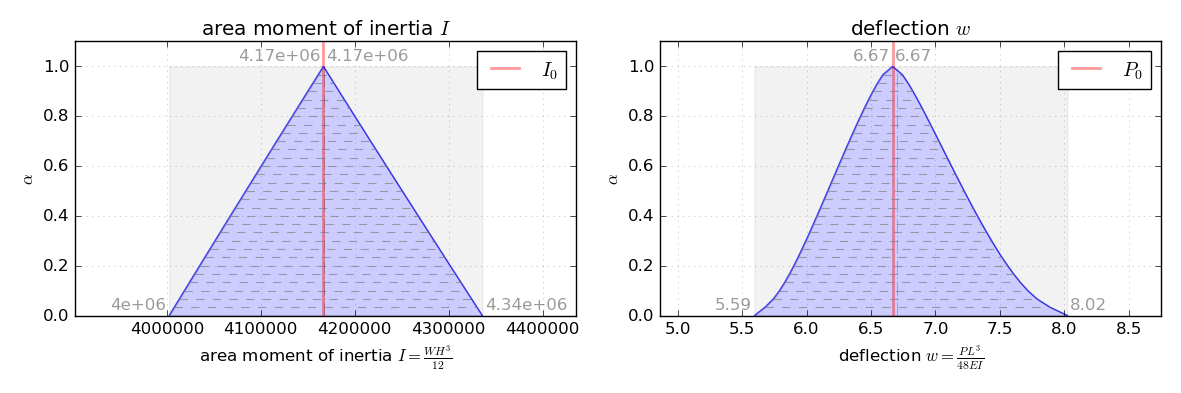
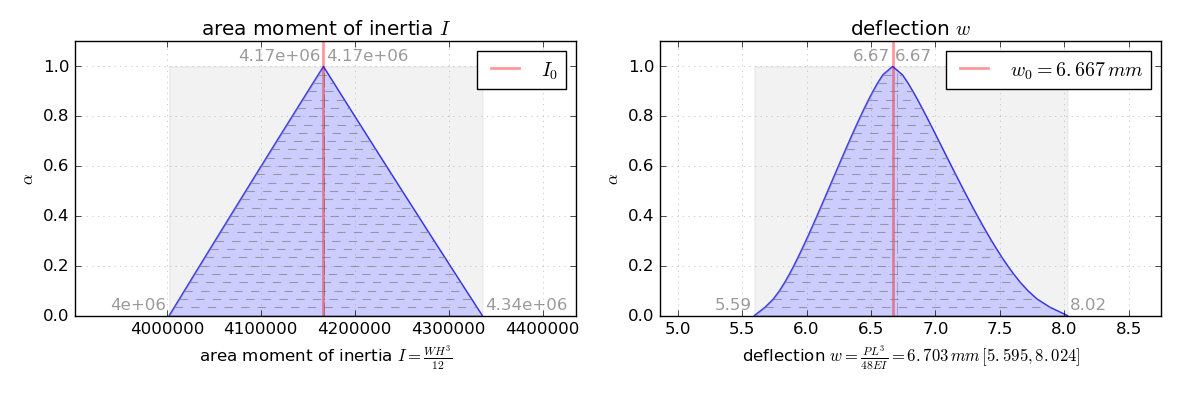
update example ssb

Changed region(s): [[0.7925, 0.1221, 0.9754, 0.2443], [0.6097, 0.8855, 0.9145, 0.9466]]

diff --git a/docs/examples/ssb/ssb.py b/docs/examples/ssb/ssb.py
@@ -66,7 +66,7 @@ B_ = 300. # mm
 fig, axs = plt.subplots(1, 2, dpi=90, facecolor='w', edgecolor='k', figsize=(B_ / 25.4, H_ / 25.4))
 
 axs[0].axvline(I0, lw=2, alpha=.4, c="r", label="$I_0$")
-axs[1].axvline(w0, lw=2, alpha=.4, c="r", label="$P_0$")
+axs[1].axvline(w0, lw=2, alpha=.4, c="r", label="$w_0 = {:.4g}\,mm$".format(w0))
 I.plot(ax=axs[0])
 w.plot(ax=axs[1])
 
@@ -74,7 +74,7 @@ axs[0].set_title("area moment of inertia $I$")
 axs[1].set_title("deflection $w$")
 
 axs[0].set_xlabel(r"area moment of inertia $I=\frac{WH^3}{12}$")
-axs[1].set_xlabel(r"deflection $w=\frac{PL^3}{48EI}$")
+axs[1].set_xlabel(r"deflection $w=\frac{PL^3}{48EI}$" + "$ = {:.4g}\,mm\,[{:.4g},{:.4g}]$".format(w_mean, w.min(), w.max()))
 
 axs[0].legend()
 axs[1].legend()
